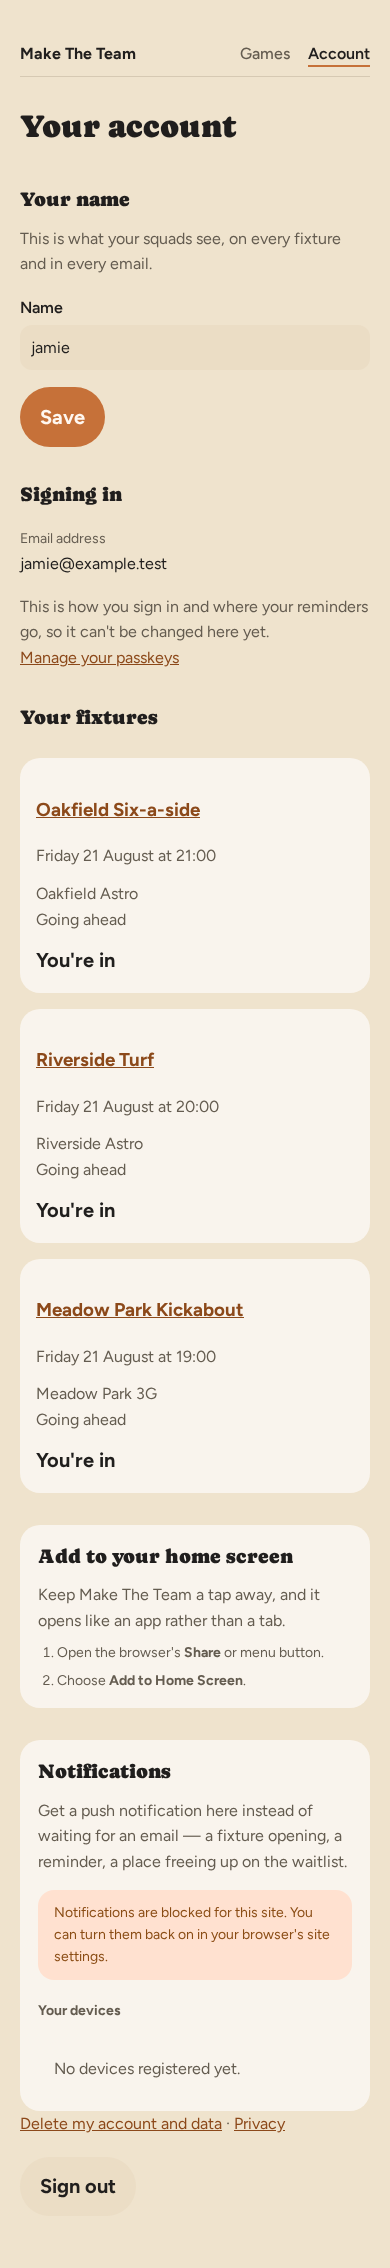
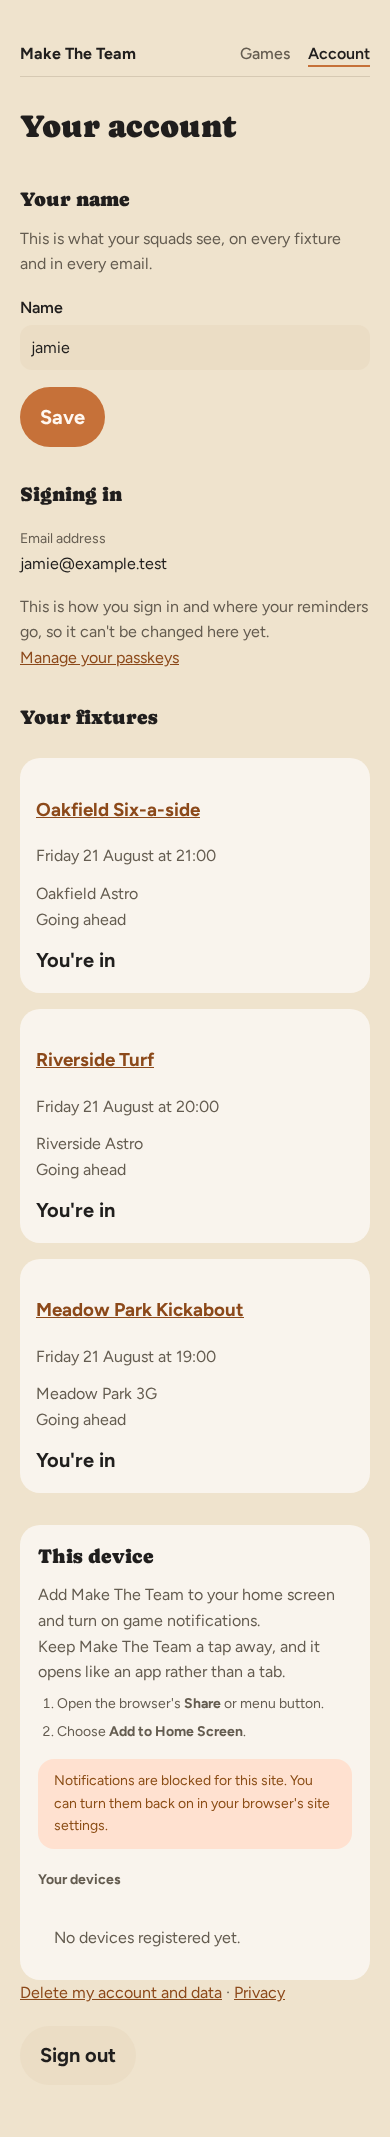
feat: install and notifications are one This device panel (M20 B5)
Claude-Session: https://claude.ai/code/session_01Erq3NJUsRVuCbi3ifphCse

diff --git a/src/views/install.ts b/src/views/install.ts
@@ -33,10 +33,8 @@ import {
  * out-specificity the attribute and reveal a control the platform cannot
  * act on.
  */
-export function renderInstallSection(): string {
+function renderInstallBody(): string {
   return `
-    <section class="install">
-      <h2>Add to your home screen</h2>
       <p data-install-instructions>
         Keep Make The Team a tap away, and it opens like an app rather than a tab.
       </p>
@@ -46,11 +44,10 @@ export function renderInstallSection(): string {
       </ol>
       <button class="button" type="button" data-install-button hidden>Add to home screen</button>
       <p data-install-done hidden>Make The Team is installed on this device.</p>
-    </section>
   `;
 }
 
-/** One registered device, as `renderPushSection` shows, tests and removes it. */
+/** One registered device, as `renderPushBody` shows, tests and removes it. */
 export interface PushDeviceRow {
   /**
    * **Never rendered as text.** Carried only so the row's two forms — remove
@@ -84,7 +81,7 @@ export interface PushDeviceRow {
 
 /**
  * The permission control — name field, button, problem paragraph — shared by
- * `renderPushSection` and `renderPushOffer` below (M14 Task 12 review,
+ * `renderPushBody` and `renderPushOffer` below (M14 Task 12 review,
  * Finding 5). Not exported: the two callers differ in exactly what a
  * `devices` field would let a caller do wrong, which is the reason this was
  * split into two functions rather than one with an optional `devices?`
@@ -185,8 +182,6 @@ function renderPushDevice(device: PushDeviceRow): string {
 }
 
 export interface PushSectionOptions {
-  heading: string;
-  intro: string;
   /**
    * base64url VAPID public key for this deployment, or `undefined` when none
    * is configured. M14 ships dark — production has no `VAPID_PUBLIC_KEY` at
@@ -226,21 +221,17 @@ export interface PushSectionOptions {
 }
 
 /**
- * Notification permission and the device list — spec §11's states 3-5, on
- * the one page that may ever show both: `/app/account`, session-gated. The
- * one-time offer on `/r/:token` is `renderPushOffer` below, not this
- * function — that page must never be able to express a devices list, which
- * is why the two are separate exports rather than one function with an
+ * The device list and its permission control — spec §11's states 3-5, on the
+ * one page that may ever show both: `/app/account`, session-gated. Just the
+ * inside of the panel — no `<section>`, heading or intro — so
+ * `renderThisDeviceSection` below can wrap it alongside the install steps
+ * without a caller ever being able to reach a devices list from anywhere
+ * else. The one-time offer on `/r/:token` is `renderPushOffer` below, not
+ * this function — that page must never be able to express a devices list,
+ * which is why the two remain separate rather than one function with an
  * optional parameter (M14 Task 12 review, Finding 5).
- *
- * States 1-2 (install) are `renderInstallSection` above. The two sections
- * currently render as two separate boxes on `/app/account` rather than one
- * merged panel — `PUSH_STYLES_CSS` in `src/views/styles.ts` intentionally
- * echoes `.install`'s own spacing and border so the two at least *look*
- * related, but they remain two `<section>` elements, and a future task may
- * choose to fold them into one.
  */
-export function renderPushSection({ heading, intro, vapidPublicKey, devices, defaultDeviceName, notice, reloadTo }: PushSectionOptions): string {
+function renderPushBody({ vapidPublicKey, devices, defaultDeviceName, notice, reloadTo }: PushSectionOptions): string {
   const deviceHeading = "<h3>Your devices</h3>";
   const deviceList =
     devices.length === 0
@@ -264,11 +255,33 @@ export function renderPushSection({ heading, intro, vapidPublicKey, devices, def
   const noticeHtml = notice === undefined ? "" : `<p class="nudge">${escapeHtml(notice)}</p>`;
 
   return `
-    <section class="push">
-      <h2>${escapeHtml(heading)}</h2>
-      <p>${escapeHtml(intro)}</p>
       ${noticeHtml}
       ${devices.length === 0 ? `${control}${deviceHeading}${deviceList}` : `${deviceHeading}${deviceList}${control}`}
+  `;
+}
+
+/**
+ * The account page's merged install + notifications panel (M20 B5): one
+ * section, because the two jobs are one job — make this phone useful. The
+ * token-page offer (`renderPushOffer`) is deliberately NOT built from this:
+ * the type split that stops a devices list existing on a token page is the
+ * product's endpoint-disclosure invariant, and a shared entry point is how
+ * it would erode.
+ *
+ * The permission control and device list still render inside their own
+ * `.push` wrapper rather than directly in `.install` — `PUSH_STYLES_CSS`'s
+ * selectors (`.push h3`, `.push .button`, `.push label.device-name`, …) are
+ * shared with `renderPushOffer`'s own `<section class="push">`, and nesting
+ * here rather than editing those selectors keeps this task from touching
+ * `renderPushOffer` at all.
+ */
+export function renderThisDeviceSection(push: PushSectionOptions): string {
+  return `
+    <section class="install">
+      <h2>This device</h2>
+      <p>Add Make The Team to your home screen and turn on game notifications.</p>
+      ${renderInstallBody()}
+      <div class="push">${renderPushBody(push)}</div>
     </section>
   `;
 }
@@ -305,9 +318,10 @@ export interface PushOfferOptions {
  * token-authenticated page — anyone holding the response link in `/r/:token`
  * reaches it, not only the player it names — and `PUSH_UNSUBSCRIBE_PATH`'s
  * whole safety argument (`src/auth/paths.ts`) depends on an endpoint value
- * never being disclosed to a token-authenticated caller. `renderPushSection`
+ * never being disclosed to a token-authenticated caller. `renderPushBody`
  * above is the only function in this module that can render a devices list,
- * and it is called from nowhere but `/app/account`. Do not add a `devices`
+ * and it is called from nowhere but `renderThisDeviceSection`, itself called
+ * from nowhere but `/app/account`. Do not add a `devices`
  * field to `PushOfferOptions` — see `src/views/fixture.ts`'s
  * `FixturePageOptions.pushOffer` doc comment before changing anything here.
  */

diff --git a/src/views/styles.ts b/src/views/styles.ts
@@ -668,10 +668,11 @@ export const OFFLINE_STYLES_CSS = `
 `;
 
 /**
- * The install section on the account page (M13). Its own block rather than
- * an extension of `FORM_CSS`: `renderInstallSection` (`src/views/install.ts`)
- * is the one place this markup exists, so its canonical CSS lives beside the
- * other single-page blocks above rather than folded into the wider form
+ * The "This device" panel on the account page (M13; merged with the
+ * notification control at M20 B5). Its own block rather than an extension of
+ * `FORM_CSS`: `renderThisDeviceSection` (`src/views/install.ts`) is the one
+ * place this markup exists, so its canonical CSS lives beside the other
+ * single-page blocks above rather than folded into the wider form
  * stylesheet every owner page also carries.
  */
 export const INSTALL_STYLES_CSS = `
@@ -683,17 +684,20 @@ export const INSTALL_STYLES_CSS = `
 
 /**
  * The notification permission button and device list (M14 Task 12,
- * `renderPushSection` / `renderPushOffer` in `src/views/install.ts`) — spec
- * §11's states 3-5. Echoes `.install`'s own box and spacing on purpose
- * rather than inventing a second look, so the two are visually consistent —
- * but they remain **two separate boxes** on `/app/account`, not one merged
- * panel (M14 Task 12 review, minors: an earlier version of this comment
- * overclaimed "one coherent panel"; a future task may actually merge them,
- * but nothing here does yet).
+ * `renderPushBody` / `renderPushOffer` in `src/views/install.ts`) — spec
+ * §11's states 3-5. The box/heading rules are scoped to `section.push`
+ * specifically (not the bare `.push` class) because M20 B5 folded the
+ * account page's copy into `renderThisDeviceSection`'s `.install` panel as a
+ * plain `<div class="push">`, not a second `<section>` — a second box+margin
+ * there would nest a card inside a card. `renderPushOffer`'s own
+ * `<section class="push">` on `/r/:token` is unaffected: it is still the
+ * only element these two rules match. The inner rules below (`.push h3`,
+ * `.push .button`, …) stay unqualified because both the offer's `section`
+ * and the account page's `div` need them.
  */
 export const PUSH_STYLES_CSS = `
-  .push { margin-top: 2rem; padding: 1rem 1.1rem; border: none; border-radius: 1.25rem; background: var(--card-raised); }
-  .push h2 { margin-top: 0; }
+  section.push { margin-top: 2rem; padding: 1rem 1.1rem; border: none; border-radius: 1.25rem; background: var(--card-raised); }
+  section.push h2 { margin-top: 0; }
   .push h3 { margin: 1.25rem 0 0.5rem; font-size: var(--t-support); color: var(--mut); }
   .push .button { margin-top: 0.5rem; }
 

diff --git a/src/views/scripts.ts b/src/views/scripts.ts
@@ -536,7 +536,7 @@ export const SERVICE_WORKER_JS = `
  * Unlike `SERVICE_WORKER_JS`, this *is* a member of `PAGE_SCRIPT_BLOCKS`:
  * the registration above is unconditional, carried by every page, while this
  * enhancement is opted into by the one page that renders
- * `renderInstallSection()` (`src/views/install.ts`) — the ordinary case the
+ * `renderThisDeviceSection()` (`src/views/install.ts`) — the ordinary case the
  * enumeration exists for, not the site-wide exception `SERVICE_WORKER_JS` is.
  *
  * No `fetch`, so `connect-src` is untouched. If that ever changes, read the
@@ -661,7 +661,7 @@ export const PUSH_REENABLE_ATTRIBUTE = "data-push-reenable";
  * by whichever page renders the permission button — the account page and the
  * one-time post-response offer, both landing in M14 Task 12 — the same way
  * `INSTALL_JS` is opted into by the page that renders
- * `renderInstallSection()`. This block does not itself register the worker;
+ * `renderThisDeviceSection()`. This block does not itself register the worker;
  * `SERVICE_WORKER_JS` already does that, unconditionally, on every page.
  *
  * # Feature detection, in the order the API actually needs each piece

diff --git a/src/views/account.ts b/src/views/account.ts
@@ -5,7 +5,7 @@ import {
   PRIVACY_PATH,
   gamePath,
 } from "../auth/paths.js";
-import { renderInstallSection, renderPushSection, type PushDeviceRow } from "./install.js";
+import { renderThisDeviceSection, type PushDeviceRow } from "./install.js";
 import { escapeHtml, layout, type PageNav } from "./layout.js";
 import { INSTALL_JS, PUSH_SUBSCRIBE_JS } from "./scripts.js";
 import { signOutForm } from "./sign-out-form.js";
@@ -168,11 +168,7 @@ export function renderAccountPage({
         : `<ul class="fixture-list">${fixtures.map(renderFixture).join("")}</ul>`
     }
 
-    ${renderInstallSection()}
-    ${renderPushSection({
-      heading: "Notifications",
-      intro:
-        "Get a push notification here instead of waiting for an email — a fixture opening, a reminder, a place freeing up on the waitlist.",
+    ${renderThisDeviceSection({
       vapidPublicKey,
       devices: pushDevices,
       defaultDeviceName: `${playerName}'s phone`,

diff --git a/test/routes/account.test.ts b/test/routes/account.test.ts
@@ -566,3 +566,19 @@ describe("the device table and its controls (M18)", () => {
     expect(junkBody).not.toContain("<script>alert");
   });
 });
+
+describe("the This device panel (M20 B5)", () => {
+  it("renders one merged section, not two lookalike boxes", async () => {
+    const { cookie } = await signIn();
+    const html = await (await get(cookie)).text();
+
+    expect(html).toContain("<h2>This device</h2>");
+    expect(html).toContain("Add Make The Team to your home screen and turn on game notifications.");
+    // The old two-section headings are gone…
+    expect(html).not.toContain("<h2>Add to your home screen</h2>");
+    expect(html).not.toContain("<h2>Notifications</h2>");
+    // …but every working part of both survives inside the panel.
+    expect(html).toContain("data-install-button");
+    expect(html).toContain("Your devices");
+  });
+});

diff --git a/test/browser/push.spec.ts b/test/browser/push.spec.ts
@@ -163,7 +163,11 @@ test("the account page offers the permission button, carrying the configured VAP
   // key does not silently leave this asserting the old one.
   await expect(button).toHaveAttribute(PUSH_KEY_ATTRIBUTE, /^B[A-Za-z0-9_-]{86}$/);
 
-  await expect(page.locator("section.push h2")).toHaveText("Notifications");
+  // M20 B5 merged the install and notification sections into one
+  // `<section class="install">` panel headed "This device"; the permission
+  // control now lives in a `<div class="push">` beneath it, not its own
+  // `<section>`.
+  await expect(page.locator("section.install h2")).toHaveText("This device");
 });
 
 test.describe("the device list, with JavaScript off", () => {
